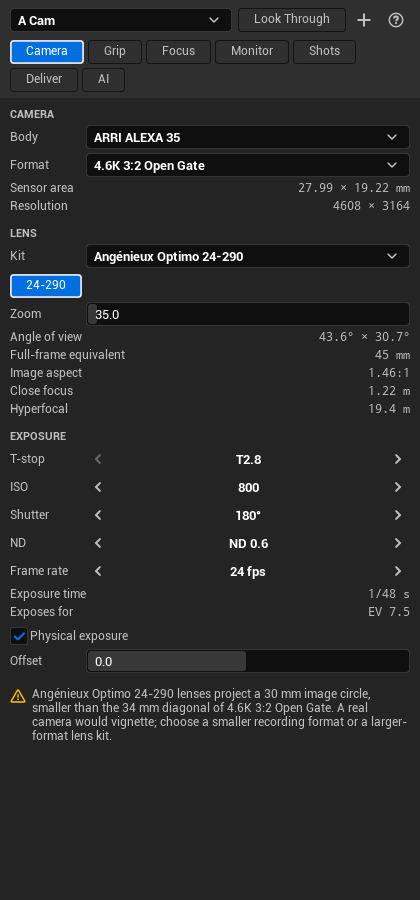
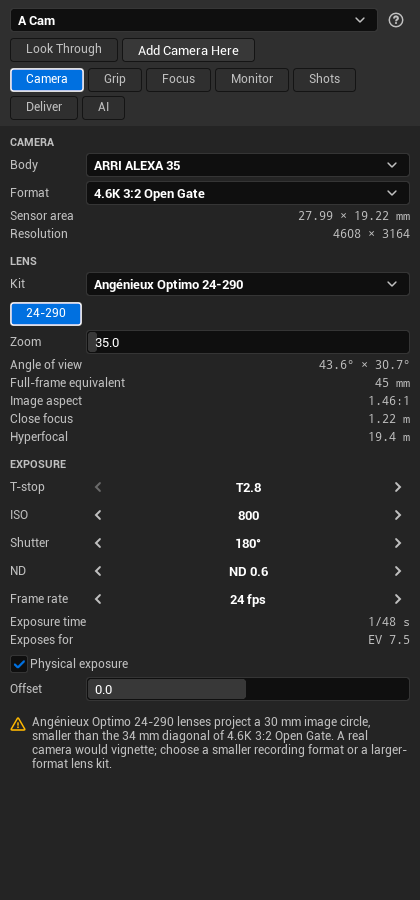
Guide: the shallow-focus sample, Add Camera Here, focus points, dolly zoom, six delivery kinds, path boxes

diff --git a/HostProject/Plugins/UEcine/Docs/UserGuide.html b/HostProject/Plugins/UEcine/Docs/UserGuide.html
@@ -97,39 +97,39 @@
 <p>The <b class="ui">?</b> button at the top of the panel opens this guide.</p>
 
 <h2 id="first-shot">2. Your first shot</h2>
-<p>UEcine comes with a small sample stage: a set in daylight, a stand-in called Anna behind a table, and an ARRI ALEXA 35 with a 35 mm on a 30 ft telescoping crane. This walk-through takes it from an empty Sequencer to delivered files in about ten minutes.</p>
+<p>UEcine comes with a small sample stage: a set in daylight, a stand-in called Anna behind a table, a lamp nearer the camera, and an ARRI ALEXA 35 with a 75 mm on a 30 ft telescoping crane. The lens is nearly wide open, so Anna is sharp and the rest of the set is soft. This walk-through takes it from an empty Sequencer to delivered files in about ten minutes.</p>
 
 <figure>
 	<div class="pair">
-		<img src="images/sample-stage.png" alt="The sample stage seen through its camera: a grey stand-in figure behind a table, two pillars and a wall under a blue sky.">
+		<img src="images/sample-stage-peaking.png" alt="The sample stage seen through its camera: a grey stand-in figure in sharp focus with a red edge drawn round it, and a lamp beside it out of focus with no edge.">
 		<img src="images/sample-stage-false-colour.png" alt="The same picture in false colour, with a legend naming each band of signal level.">
 	</div>
-	<figcaption>The sample stage through A Cam, and the same picture in false colour.</figcaption>
+	<figcaption>The sample stage through A Cam with peaking on: the red edge is on Anna, who is in focus, and not on the lamp, which is not. Beside it, the same picture in false colour.</figcaption>
 </figure>
 
 <ol>
 	<li><strong>Open the stage.</strong> In the Content Browser open <b class="ui">Settings</b> and turn on <b class="ui">Show Plugin Content</b>. Then open <b class="ui">Plugins &gt; UEcine Content &gt; Sample &gt; UEcineSampleStage</b>. Save a copy into your own project (<b class="ui">File &gt; Save Current Level As</b>) so that your work is kept there.</li>
 	<li><strong>Choose the camera.</strong> In the picker at the top of the panel choose <b class="ui">A Cam</b>. Press <b class="ui">Look Through</b> to see its picture in the viewport.</li>
-	<li><strong>Look at the camera package.</strong> The <b class="ui">Camera</b> tab shows the body, its recording format and the lens kit. Press another focal length in the kit to change lens, then press 35 again. The camera is exposed like a real one: T5.6 at ISO 800 with a 180° shutter and ND 2.1, for full sun.</li>
+	<li><strong>Look at the camera package.</strong> The <b class="ui">Camera</b> tab shows the body, its recording format and the lens kit. Press another focal length in the kit to change lens, then press 75 again. The camera is exposed like a real one: T2.8 at ISO 400 with a 180° shutter and ND 2.1, for full sun.</li>
 	<li><strong>Judge the exposure.</strong> In the <b class="ui">Monitor</b> tab turn on <b class="ui">False Colour</b>. The legend in the picture names each band: Anna sits in middle grey and the sunlit floor a stop over. Open the iris a stop in the Camera tab and watch the bands move, then put it back. Turn False Colour off.</li>
 	<li><strong>Walk the move.</strong> In the <b class="ui">Grip</b> tab the camera is on a crane, with two marks. Press <b class="ui">Mark 2</b> to put the crane on its end position and <b class="ui">Mark 1</b> to come back. The move between them takes four seconds.</li>
 	<li><strong>Make the shot.</strong> In the <b class="ui">Shots</b> tab press <b class="ui">New Shot</b>. UEcine makes a sequence, opens it in Sequencer and adds a shot through A Cam.</li>
 	<li><strong>Bake the move.</strong> Back in the Grip tab press <b class="ui">Bake to Sequencer</b>. Play the shot in Sequencer: the crane booms up and swings as a crew would move it.</li>
-	<li><strong>Check the focus.</strong> The <b class="ui">Focus</b> tab says the focus is following Anna, and shows the near and far limits of what is sharp. In the Monitor tab turn on <b class="ui">Peaking</b> to see it in the picture.</li>
+	<li><strong>Check the focus.</strong> The <b class="ui">Focus</b> tab says the focus is following Anna, and shows the near and far limits of what is sharp. In the Monitor tab turn on <b class="ui">Peaking</b>: a coloured edge is drawn on Anna and on nothing else, because only she is in focus. Press <b class="ui">Pick Focus</b> and click the lamp, and the edge moves to the lamp.</li>
 	<li><strong>Deliver for review.</strong> In the <b class="ui">Deliver</b> tab choose <b class="ui">Review</b>. Preflight looks through the sequence; when it says <b class="ui">Ready to render</b>, press <b class="ui">Render Review</b>. <b class="ui">Open Folder</b> shows the movie, with its slate and burn-ins.</li>
-	<li><strong>Deliver for visual effects.</strong> Choose <b class="ui">VFX Handoff</b> and press <b class="ui">Render VFX Handoff</b>. Each frame is an OpenEXR file with depth, normals, motion vectors and mattes, and beside the frames are the camera as FBX and a file of camera and lens data.</li>
+	<li><strong>Deliver for visual effects.</strong> Choose <b class="ui">VFX Passes</b> and press <b class="ui">Render VFX Passes</b>. Each frame is an OpenEXR file with depth, normals, motion vectors and mattes, and beside the frames are the camera as FBX and a file of camera and lens data.</li>
 </ol>
 <div class="note"><p>Everything you do in the panel is one step in Unreal's undo history. <b class="ui">Ctrl+Z</b> takes back a lens change, a mark or a bake like any other edit.</p></div>
 
 <h2 id="panel">3. The panel</h2>
 <figure>
-	<img src="images/panel-camera.png" alt="The UEcine panel on its Camera tab: the camera picker, Look Through and New Camera at the top, the row of department tabs, then Camera, Lens and Exposure sections." width="420">
+	<img src="images/panel-camera.png" alt="The UEcine panel on its Camera tab: the camera picker, Look Through and Add Camera Here at the top, the row of department tabs, then Camera, Lens and Exposure sections." width="420">
 	<figcaption>The panel on its Camera tab.</figcaption>
 </figure>
 <ul>
 	<li><strong>The camera picker</strong> at the top names the camera the panel is working on. Selecting a Cine Camera in the level switches to it; selecting a light or a prop keeps the camera you had.</li>
 	<li><strong>Look Through</strong> shows that camera's picture in the viewport. A free camera then moves with the viewport. A camera on a support is held by the support, and the Grip tab moves it.</li>
-	<li><strong>+</strong> makes a new Cine Camera where the viewport is looking from, with a camera package ready to edit.</li>
+	<li><strong>Add Camera Here</strong> makes a new Cine Camera from the view you have now. Move through the level as usual; when you like the framing, press it. The new camera is where the viewport is, looks the same way, and has the lens of its kit that takes in the same view, in a camera package ready to edit.</li>
 	<li><strong>The departments</strong> are the tabs below: Camera, Grip, Focus, Monitor, Shots, Deliver and AI.</li>
 </ul>
 <p>Every control can be reached with <b class="ui">Tab</b> and worked with <b class="ui">Enter</b>, <b class="ui">Space</b> and the arrow keys, and each has a tooltip that says what it does. Warnings carry an icon and a sentence that says what is wrong and what to do about it.</p>
@@ -170,16 +170,26 @@
 	<li>Under <b class="ui">Operator</b> choose whose hands the camera is in (locked off, fluid head, remote head, Steadicam, handheld, drone) and how much they move. Each <b class="ui">Take</b> moves a little differently, and the same take number always gives the same movement.</li>
 	<li>Press <b class="ui">Bake to Sequencer</b>. The move is written into the open sequence from the playhead, as keys on the support's axes with the operator's movement on the camera.</li>
 </ol>
+<h3>Dolly zoom</h3>
+<p>On a dolly or a slider, each move has a <b class="ui">Dolly Zoom</b> switch. Turned on, the lens zooms as the camera travels so that what the focus is on stays the same size in the frame while the background stretches or closes in behind it.</p>
+<ul>
+	<li>Put a zoom lens on the camera in the Camera tab. A prime cannot zoom, and the tab says so.</li>
+	<li>Hold the focus on the subject first, with <b class="ui">Pick and Hold</b> or <b class="ui">Follow Selected</b> in the Focus tab. The subject the focus is held on is the one kept at its size.</li>
+	<li>The tab shows the focal lengths the move starts and ends on. If the move asks for more than the lens has, it says so, and the zoom stops at the end of the lens's range.</li>
+	<li><b class="ui">Bake to Sequencer</b> writes the zoom into the sequence with the move.</li>
+</ul>
 <p>If a move is faster than the support can travel, or a mark is past the end of its reach, the tab says which axis, by how much, and the shortest time the move could take. You can bake it all the same: it is a CG camera, and the choice is yours.</p>
 <p>After a bake, changing a mark or the operator does not change what Sequencer plays. The tab says so until you bake again.</p>
 <p>To curve a dolly's track, select the dolly in the level and move the points of its track in the viewport.</p>
 
 <h2 id="focus">6. Focus</h2>
 <ul>
-	<li><b class="ui">Pick Focus</b>, then click the subject in the viewport, sets the focus on what you clicked. <b class="ui">Distance</b> sets it by hand.</li>
-	<li><b class="ui">Follow Selected</b> keeps the focus on the actor selected in the level as it and the camera move. <b class="ui">Stop Following</b> leaves the focus where it is.</li>
+	<li><b class="ui">Pick Focus</b>, then click a subject or any part of one in the viewport, sets the focus to the distance of what you clicked. <b class="ui">Distance</b> sets it by hand.</li>
+	<li><b class="ui">Pick and Hold</b>, then click, holds the focus on the very point you clicked: an eye, a hand, a place on the floor. When the camera or the subject moves, the focus is pulled to keep that point sharp. The tab says what the focus is <b class="ui">Held on</b>.</li>
+	<li><b class="ui">Follow Selected</b> keeps the focus on the actor selected in the level, as a whole, as it and the camera move. <b class="ui">Let Go</b> leaves the focus where it is.</li>
 	<li><b class="ui">Depth of Field</b> shows the near limit, far limit, depth of field and hyperfocal distance for the lens, stop and focus distance, as they change.</li>
-	<li><b class="ui">Mark Focus</b> stores the present distance as a focus mark. <b class="ui">Rack</b> beside a mark pulls focus from where it is to that mark over the <b class="ui">Rack time</b>, and writes the rack into Sequencer from the playhead.</li>
+	<li><b class="ui">Mark Focus</b> stores what the focus is on as a focus mark: the point or subject it is held on, or else its distance. Make as many as the shot needs. A mark on a point says what it is on, and its distance is measured to where the point is now.</li>
+	<li>Pressing a mark goes to it. <b class="ui">Rack</b> beside a mark pulls focus from where it is to that mark over the <b class="ui">Rack time</b>, and writes the rack into Sequencer from the playhead. A rack to a point keeps the point sharp for the rest of the shot, even while the camera travels.</li>
 </ul>
 <p>A lens does not focus nearer than its close focus. When the subject is nearer than that, the tab says so and says what would put it right.</p>
 
@@ -192,7 +202,7 @@
 		<tr><td>False Colour</td><td>Signal level as bands of colour, from crushed black through middle grey to clipped white, with a legend in the picture.</td></tr>
 		<tr><td>Zebras</td><td>Stripes on everything at or above the <b class="ui">Zebra level</b>.</td></tr>
 		<tr><td>Waveform, Histogram</td><td>Scopes of the whole picture, drawn in its corners.</td></tr>
-		<tr><td>Peaking</td><td>An edge in a colour of your choice on what is sharp.</td></tr>
+		<tr><td>Peaking</td><td>An edge in a colour of your choice on what is in focus, and only on that. It shows best with a shallow depth of field: a long lens, a wide stop, a near subject. When everything in the frame is within the depth of field, everything has an edge.</td></tr>
 		<tr><td>Frame Lines</td><td>The frame the shot is delivered in, chosen in <b class="ui">Deliver in</b> (2.39:1, 1.85:1 and so on).</td></tr>
 		<tr><td>Safe Areas, Centre Mark</td><td>Action and title safe, and the centre of the frame.</td></tr>
 		<tr><td>Data Readout</td><td>The camera's lens and exposure settings, written in the picture.</td></tr>
@@ -216,17 +226,21 @@
 <table>
 	<thead><tr><th>Delivery</th><th>What is written</th></tr></thead>
 	<tbody>
+		<tr><td>Draft</td><td>A small, quick MP4 movie of each shot at half the review size, with burn-ins, to look at while you work. It plays in any player.</td></tr>
 		<tr><td>Review</td><td>A light ProRes movie of each shot in its delivery frame, with a slate and burn-ins if you want them, to pass around and comment on.</td></tr>
-		<tr><td>VFX Handoff</td><td>Every frame of each shot as a scene-linear OpenEXR file with depth, normals, motion vectors and mattes; the camera as FBX; a file of camera and lens data for every frame; and a copy of the sequence that opens without UEcine.</td></tr>
+		<tr><td>VFX Passes</td><td>Every frame of each shot as a scene-linear OpenEXR file with depth, normals, motion vectors and mattes; the camera as FBX; a file of camera and lens data for every frame; and a copy of the sequence that opens without UEcine.</td></tr>
 		<tr><td>Master</td><td>The finished picture of each shot as a ProRes 4444 movie in its delivery frame, with smooth motion blur and nothing drawn over it.</td></tr>
+		<tr><td>YouTube</td><td>The finished picture of each shot as an H.264 MP4 file at the settings YouTube asks for, at 1080p or 4K. The file is made on your computer; uploading it is up to you.</td></tr>
+		<tr><td>DCP Source</td><td>The finished picture of each shot as a ProRes 4444 movie in the cinema's frame, at 2K or 4K: 2048 by 858 for a 2.39:1 picture and 1998 by 1080 for 1.85:1. A DCP program such as DCP-o-matic makes the cinema package from it. UEcine does not write the DCP itself.</td></tr>
 	</tbody>
 </table>
 </div>
 <ul>
-	<li><b class="ui">Files</b>: the folder deliveries are written under, and the name of each file. <b class="ui">Add Token</b> puts in parts that change, such as the shot's name, the scene, the camera or a version that counts up by itself. The first file of each shot is shown before you render.</li>
-	<li><b class="ui">Preflight</b> looks through the sequence for the mistakes that spoil renders: a shot with no camera cut, a camera whose frame rate is not the sequence's, exposure left to adapt by itself, two shots with one name. Each finding says whether it stops the render or is only worth knowing, and most have a button that puts it right.</li>
+	<li><b class="ui">Size</b>, for YouTube and DCP Source, chooses between 1080p or 2K and 4K. 4K takes about four times as long to render.</li>
+	<li><b class="ui">Files</b>: the folder deliveries are written under, and the name of each file. <b class="ui">Browse</b> picks the folder, a folder dragged from Explorer can be dropped on the box, and <b class="ui">Show in Explorer</b> opens it. <b class="ui">Add Token</b> puts in parts that change, such as the shot's name, the scene, the camera or a version that counts up by itself. The first file of each shot is shown before you render.</li>
+	<li><b class="ui">Preflight</b> looks through the sequence for the mistakes that spoil renders: a shot with no camera cut, a camera whose frame rate is not the sequence's, exposure left to adapt by itself, two shots with one name, a DCP source that does not play at 24 frames a second. Each finding says whether it stops the render or is only worth knowing, and most have a button that puts it right.</li>
 	<li><b class="ui">Render</b> starts the delivery. The editor is busy until it is done; <b class="ui">Stop</b> ends it and keeps what was written.</li>
-	<li><b class="ui">Bake for Handoff</b> makes the copy of the sequence that plays on plain Cine Cameras and Sequencer keys, without rendering. A VFX handoff makes it by itself.</li>
+	<li><b class="ui">Bake for Handoff</b> makes the copy of the sequence that plays on plain Cine Cameras and Sequencer keys, without rendering. A VFX Passes delivery makes it by itself.</li>
 </ul>
 <div class="note"><p>Visual effects usually ask for ACEScg. Preflight tells you when the project does not work in it and offers <b class="ui">Work in ACEScg</b>, which takes effect when the editor is restarted. Until then the files are scene-linear in the project's own colour space, and say so in their metadata.</p></div>
 
@@ -244,6 +258,7 @@
 <h3>Pictures</h3>
 <p>A depth map, a matte or a lens estimate for a still or a frame of a plate: pictures Unreal did not render. Depth and mattes of what Unreal renders come exactly, with a VFX delivery.</p>
 <ul>
+	<li><b class="ui">Picture</b> is the still or frame to work on. Press <b class="ui">Browse</b> to pick it, or drag the file from Explorer and drop it on the box; there is no need to type its path. <b class="ui">Show in Explorer</b> opens the folder it is in.</li>
 	<li><b class="ui">Depth Map</b> and <b class="ui">Matte</b> write image files beside each other in the project's saved folder.</li>
 	<li><b class="ui">Estimate Lens</b> reads the field of view a reference picture looks to have been taken with, and names the lens of the camera's kit that comes nearest. <b class="ui">Put On</b> puts that lens on the camera.</li>
 	<li><b class="ui">Run on</b> chooses where the work is done: in the editor, on this machine's graphics card; in a helper program on this machine, which needs a Python installation with <code>onnxruntime</code>, <code>numpy</code> and <code>pillow</code>; or on a server your studio runs, which asks for your agreement first because the picture leaves this machine.</li>
@@ -297,7 +312,9 @@
 	<thead><tr><th>What you see</th><th>What to do</th></tr></thead>
 	<tbody>
 		<tr><td>UEcine is not in the Window menu</td><td>Turn the plugin on under Edit &gt; Plugins and restart the editor.</td></tr>
-		<tr><td>The panel says there is no camera</td><td>Press <b class="ui">New Camera</b>, or select a Cine Camera Actor in the level.</td></tr>
+		<tr><td>The panel says there is no camera</td><td>Press <b class="ui">Add Camera Here</b>, or select a Cine Camera Actor in the level.</td></tr>
+		<tr><td>Peaking draws an edge on everything</td><td>Everything is within the depth of field. Open the iris, use a longer lens or move nearer the subject; the Focus tab shows the near and far limits.</td></tr>
+		<tr><td>Dolly Zoom is not in the Grip tab</td><td>It is offered on a dolly or a slider. It needs a zoom lens, and the focus held on the subject.</td></tr>
 		<tr><td>The sample stage is not in the Content Browser</td><td>Turn on Show Plugin Content in the Content Browser's settings.</td></tr>
 		<tr><td>The picture goes black or white with Physical exposure on</td><td>The level is not lit at real-world levels. Read <b class="ui">Exposes for</b> in the Camera tab, then change the light or the stop, or turn Physical exposure off.</td></tr>
 		<tr><td>The camera will not move in the viewport</td><td>It is on a support. Move the support in the Grip tab, or choose <b class="ui">No support</b> to free it.</td></tr>
